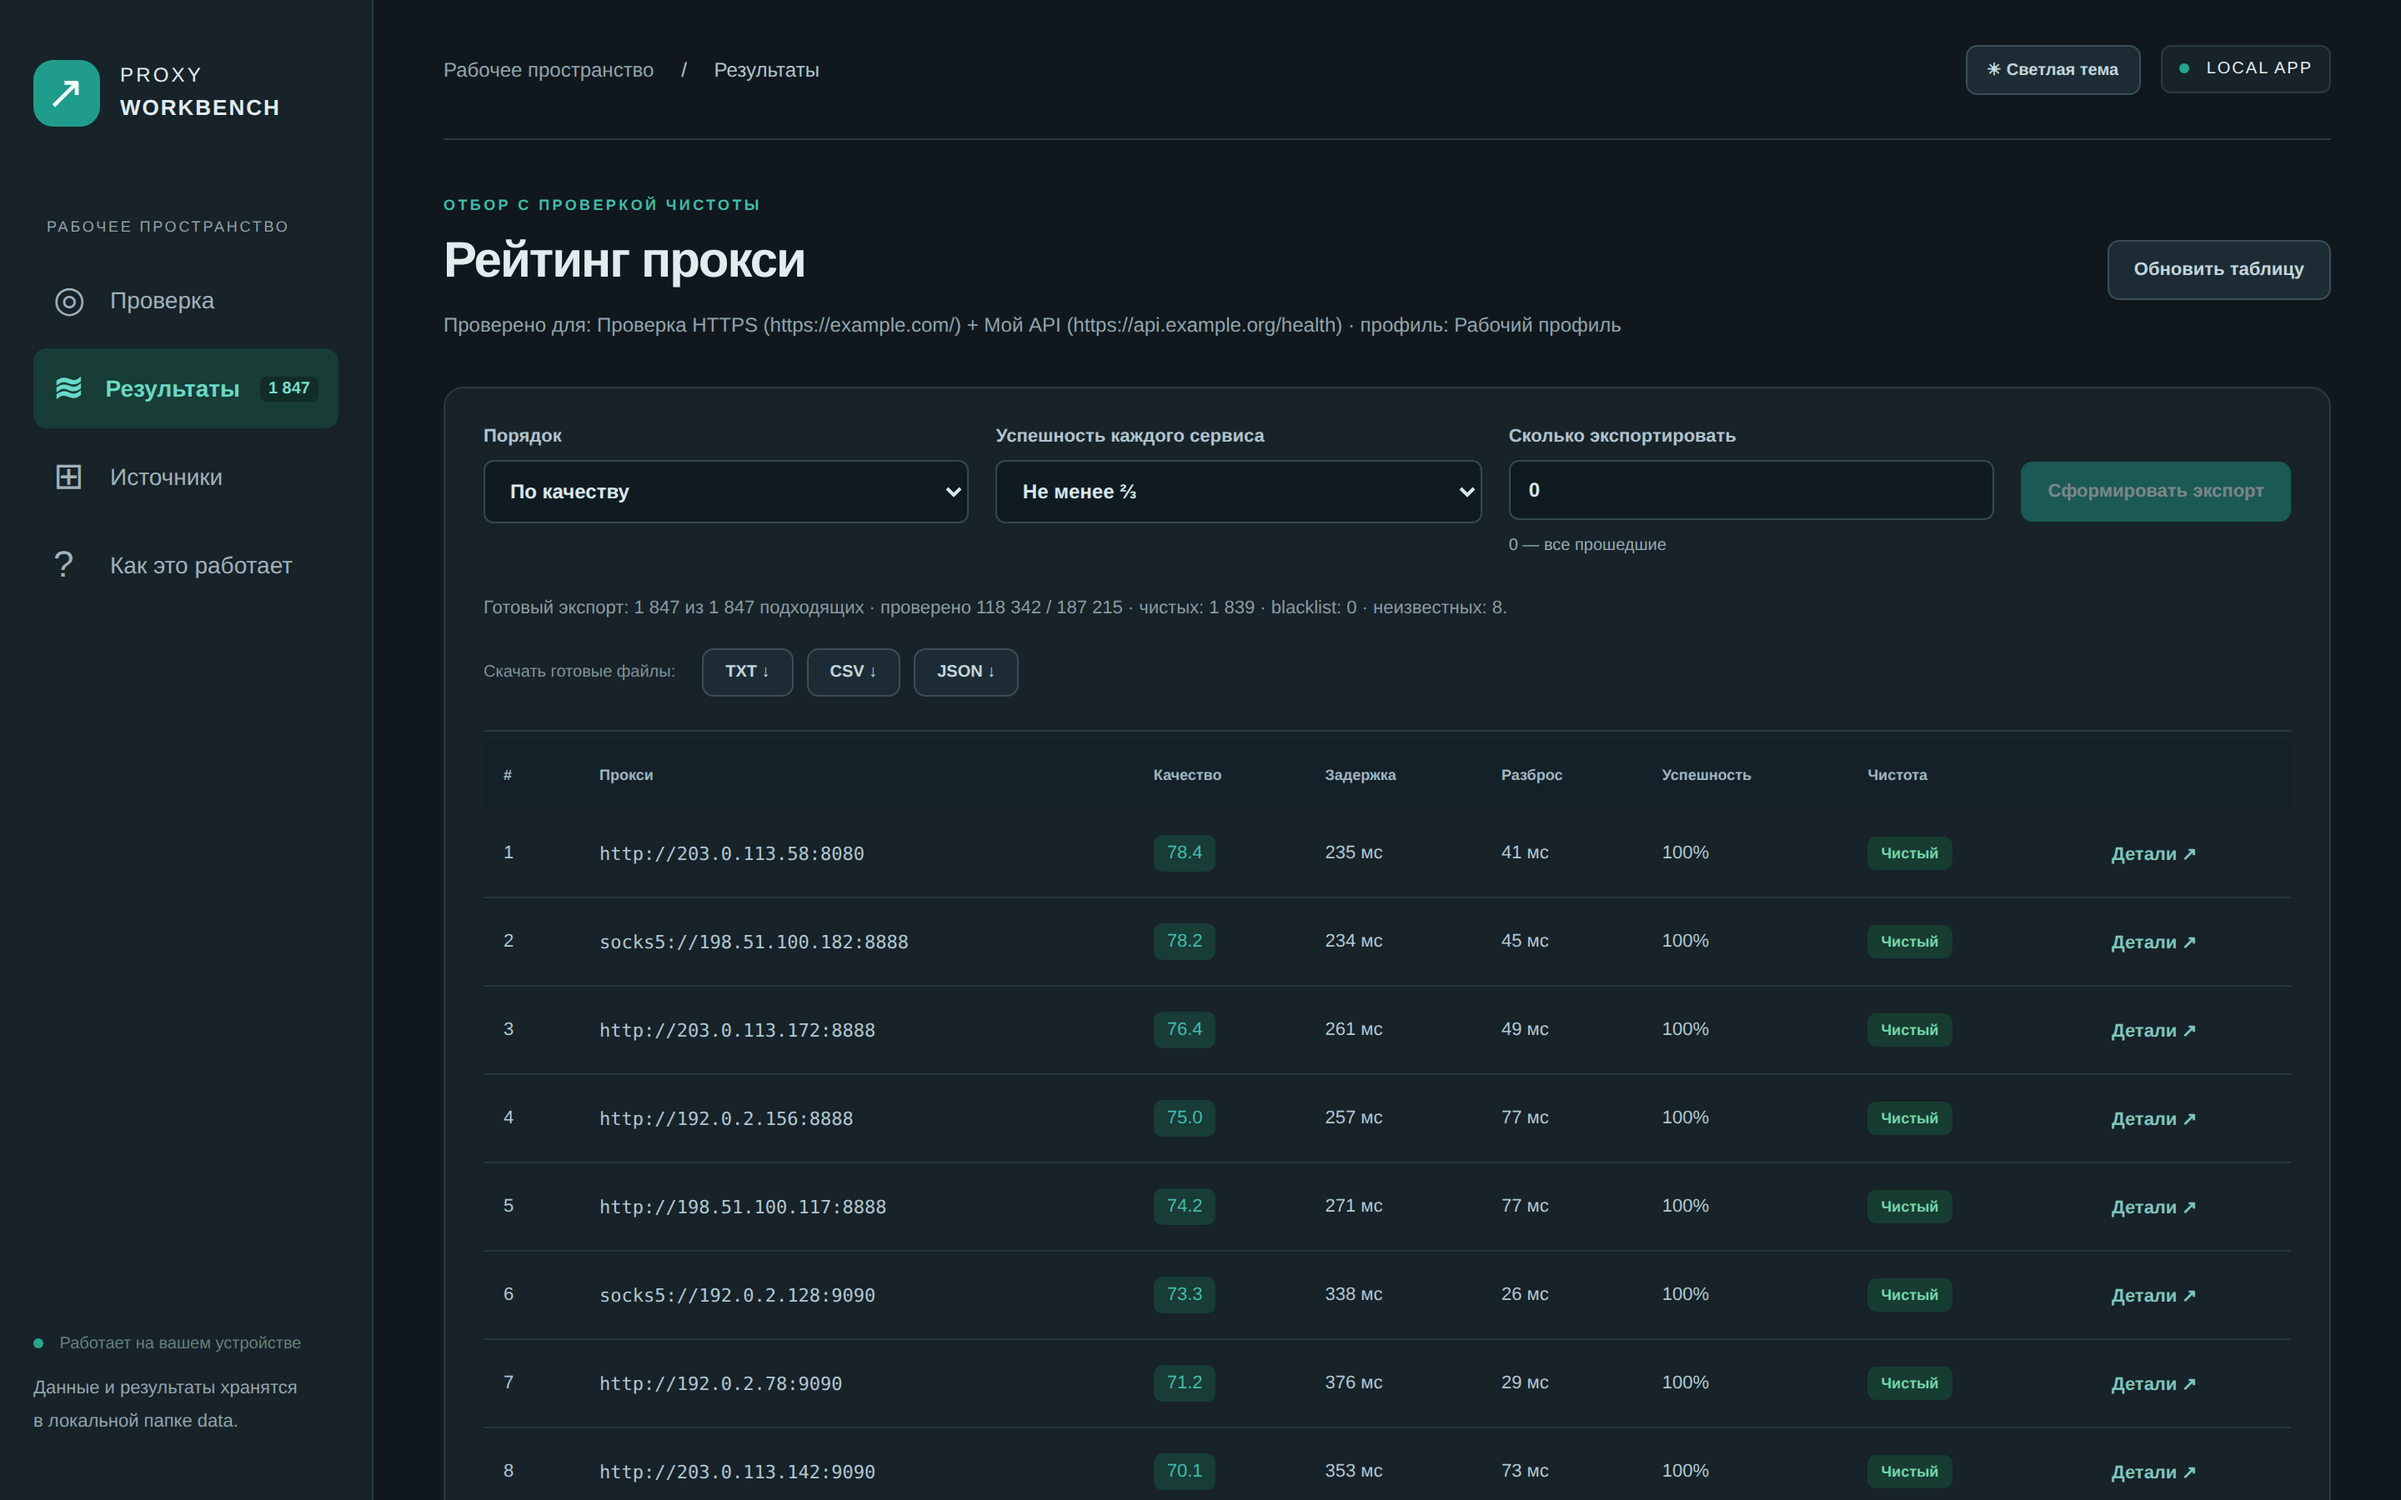
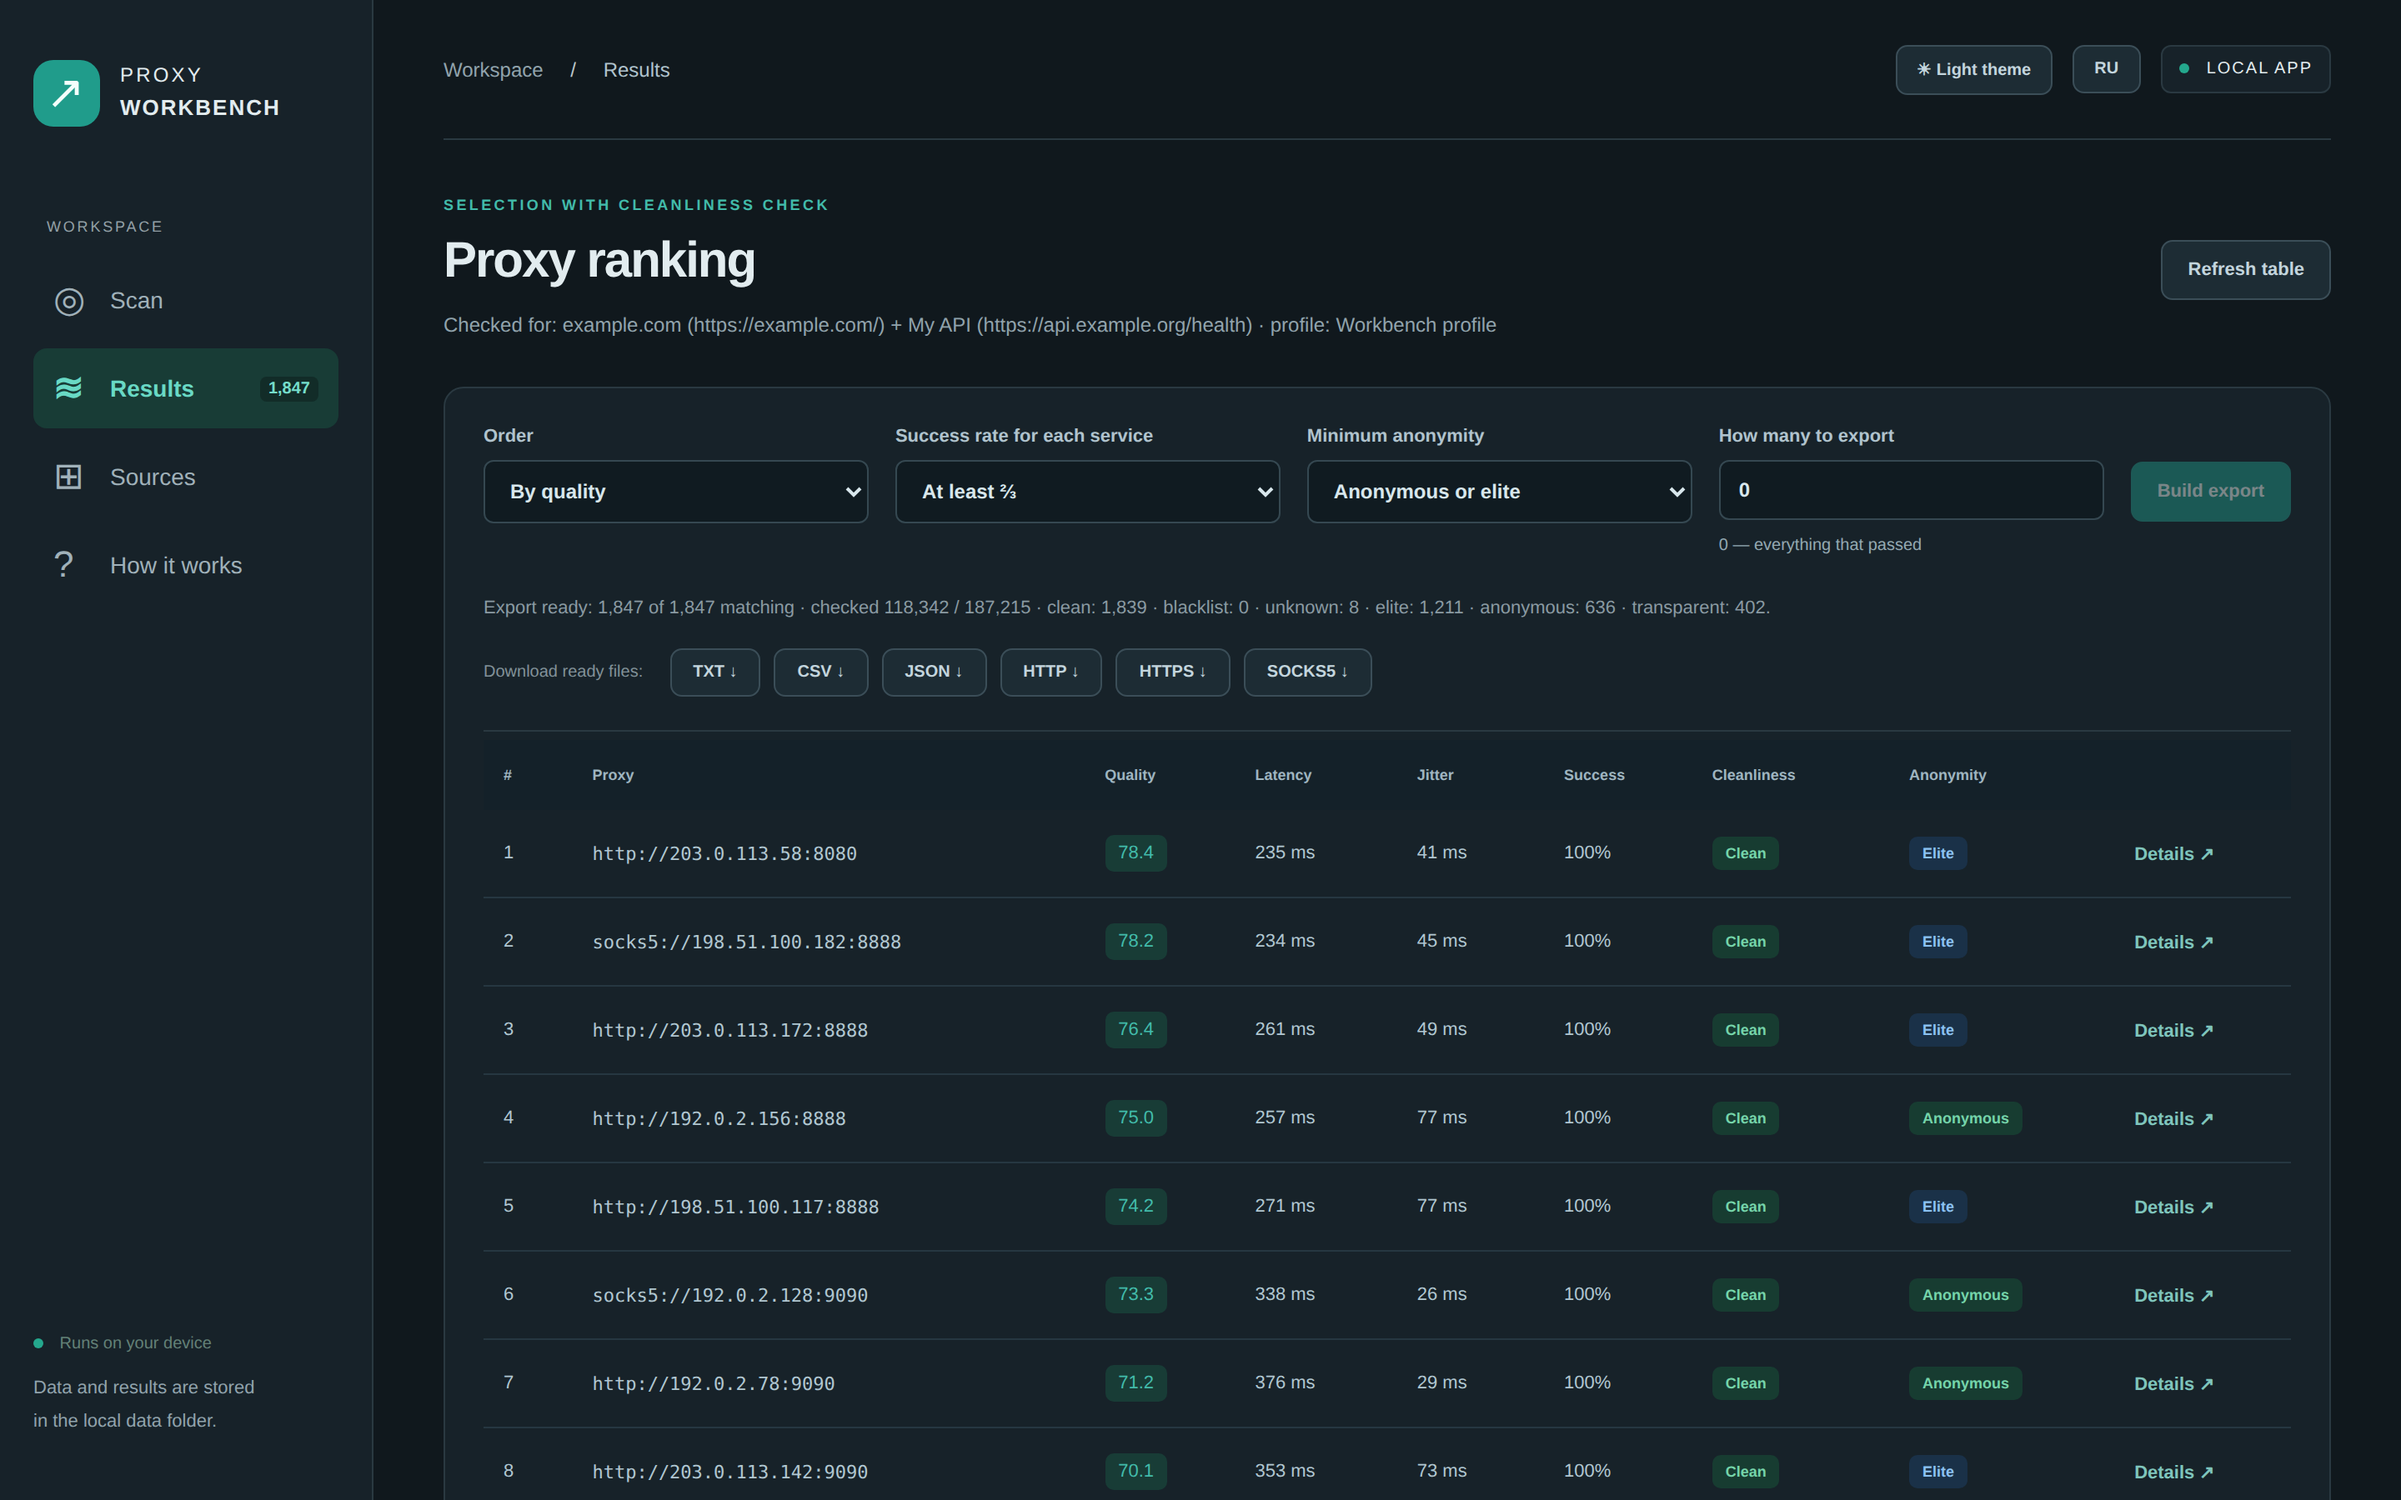
Release 1.3.0: docs, screenshots and version bump
- README (EN/RU): anonymity levels, protocol exports, EN/RU interface,
  judge FAQ, updated diagram, CLI and config examples
- PRIVACY: what an anonymity judge can observe
- English and Russian screenshots, refreshed social preview
- Neutral default service name (example.com) for both UI languages
- Version 1.3.0, CHANGELOG, SECURITY supported versions

diff --git a/gui.py b/gui.py
@@ -53,7 +53,7 @@ def public_sources(values):
 
 
 def defaults():
-    return dict(settings_version=2, targets=[dict(name='Проверка HTTPS', url='https://example.com/', statuses=[200],
+    return dict(settings_version=2, targets=[dict(name='example.com', url='https://example.com/', statuses=[200],
                              contains='Example Domain', headers={}, method='GET')],
                 sources=json.loads((ROOT/'sources.json').read_text(encoding='utf-8')), use_sources=True,
                 proxies='', attempts=3, timeout=8, workers=128, rate=100,

diff --git a/branding.py b/branding.py
@@ -11,7 +11,7 @@ import json
 
 PRODUCT_NAME = "Proxy Workbench"
 PRODUCT_ID = "ProxyWorkbench"
-PRODUCT_VERSION = "1.2.0"
+PRODUCT_VERSION = "1.3.0"
 DEFAULT_REQUEST_PROFILE = "workbench"
 
 REQUEST_PROFILES = {

diff --git a/README.md b/README.md
@@ -4,9 +4,9 @@
 
 # Proxy Workbench
 
-**Collect free public proxies from 47 open lists, test every one against _your_ services, and keep only the fast, stable and clean ones.**
+**Collect free public proxies from 47 open lists, test every one against _your_ services, and keep only the fast, stable, clean and anonymous ones.**
 
-Local browser GUI + CLI · HTTP / HTTPS (CONNECT) / SOCKS5 · resumable · no accounts, no telemetry
+Local browser GUI (English / Russian) + CLI · HTTP / HTTPS (CONNECT) / SOCKS5 · anonymity levels · resumable · no accounts, no telemetry
 
 ![Python 3.11+](https://img.shields.io/badge/python-3.11%2B-3776AB?logo=python&logoColor=white)
 ![License: MIT](https://img.shields.io/badge/license-MIT-2ea44f)
@@ -30,7 +30,7 @@ Free proxy lists are everywhere, but most of what they contain is dead, slow, or
 
 - It gathers candidates from dozens of public lists (or your own files) and de-duplicates them.
 - It sends **real HTTP(S) requests through each proxy** to every service you specify — several times — and checks status codes, body text, or even a SHA-256 of the response.
-- It ranks survivors by **median latency, jitter and success rate**, flags **blacklisted IPs** (local denylist + optional DNSBL), and exports TXT / CSV / JSON.
+- It ranks survivors by **median latency, jitter and success rate**, flags **blacklisted IPs** (local denylist + optional DNSBL), rates **anonymity** (transparent / anonymous / elite) and exports TXT / CSV / JSON plus ready-to-use `host:port` lists per protocol.
 
 Everything runs on your machine. The GUI binds to `127.0.0.1` only.
 
@@ -58,11 +58,13 @@ Everything runs on your machine. The GUI binds to `127.0.0.1` only.
 | **Test against your services** | Several targets per profile (up to 20 in the GUI). A proxy passes only if it works for **all** of them. |
 | **Strict success rules** | Allowed status codes, required body substring, expected SHA-256, `GET`/`HEAD`, safe custom headers. Catches captcha and stub pages that still return `200`. |
 | **Repeated measurements** | N attempts per target (default 3), a per-target success threshold (e.g. 2 of 3), median latency and jitter. |
+| **Anonymity levels** | Point it at any echo “judge” page and every working proxy is rated **transparent** (leaks your IP), **anonymous** (reveals itself with `Via` / `X-Forwarded-For`) or **elite**. Filter with one click or `--min-anonymity elite`. |
 | **Cleanliness checks** | Local IP / CIDR / exact-proxy denylist plus optional DNSBL zones. Verdicts: `clean`, `listed`, `local_denied`, `unknown`, with an optional strict mode. |
 | **Built for big lists** | Bounded worker queue, rate limiter, automatic file-descriptor fitting. Tested with 190,000 simulated candidates. |
 | **Stop & resume** | Progress is stored in SQLite. `Ctrl+C` or **Stop** keeps finished work; the same command continues where it left off. |
-| **Ranking & export** | Sort by `quality` or `speed`, export top N (or all) to `proxies.txt`, `ranked.csv`, `ranked.json`. Crash-safe export generations. |
+| **Ranking & export** | Sort by `quality` or `speed`, export top N (or all) to `proxies.txt`, `ranked.csv`, `ranked.json`, plus `http.txt` / `https.txt` / `socks5.txt` in plain `host:port` format for other tools. Crash-safe export generations. |
 | **Safe by default** | Loopback-only GUI with a per-session token, CSRF/Host checks, SSRF-hardened source fetching (no private/metadata IPs, validated redirects, size limits), credential-like headers rejected. |
+| **English & Russian UI** | Switch with the EN/RU button; defaults to your browser language. Dark and light themes. |
 | **Zero setup** | Double-click launcher creates a virtual environment and installs the single dependency (`httpx[socks]`). |
 
 ## 🚀 Quick start
@@ -92,9 +94,10 @@ flowchart LR
     C --> D{"Local denylist /<br/>DNSBL"}
     D -- listed --> X["Excluded"]
     D -- "clean / unknown" --> E["N real requests<br/>per service<br/>through the proxy"]
-    E --> F["SQLite profile<br/>(resumable)"]
+    E --> J["Optional judge:<br/>transparent / anonymous / elite"]
+    J --> F["SQLite profile<br/>(resumable)"]
     F --> G["Rank: quality / speed"]
-    G --> H["proxies.txt · ranked.csv · ranked.json"]
+    G --> H["proxies.txt · ranked.csv · ranked.json<br/>http.txt · https.txt · socks5.txt"]
 ```
 
 **Scoring.** `speed` sorts by median time of a full successful request (connect + TLS + response). `quality` uses
@@ -133,6 +136,9 @@ cp service.example.json data/service.json
 ./run.sh export --top 500 --sort quality
 ./run.sh export --top 0 --sort speed --min-success 1
 
+# Rate anonymity with an echo judge and keep only elite proxies
+./run.sh run --judge-url http://judge.example/azenv.php --min-anonymity elite
+
 # Tune performance and cleanliness
 ./run.sh run --workers 256 --rate 100 --timeout 8 --attempts 3
 ./run.sh run --dnsbl --dnsbl-zone bl.example.org --strict-clean
@@ -148,6 +154,7 @@ cp service.example.json data/service.json
 {
   "request_profile": "workbench",
   "reputation": { "local_enabled": true, "dnsbl_enabled": false, "dnsbl_zones": [], "timeout": 2.5, "strict": false },
+  "anonymity": { "judge_url": "http://judge.example/azenv.php" },
   "targets": [
     {
       "url": "https://example.com/",
@@ -170,6 +177,7 @@ cp service.example.json data/service.json
 | `headers` | Safe headers only: `Accept*`, `Cache-Control`, `Pragma`, `User-Agent`, `X-Request-ID`, `X-Client-Version`. |
 | `request_profile` | `workbench`, `standard` or `minimal` — neutral User-Agent/Accept presets. |
 | `reputation` | Local denylist and DNSBL policy. |
+| `anonymity.judge_url` | Optional echo endpoint for anonymity levels (see [FAQ](#-faq)). |
 
 </details>
 
@@ -190,7 +198,7 @@ Remote lists are streamed with limits (8 MiB, 64 KiB per line, 100,000 candidate
 <details>
 <summary><b>All CLI options</b></summary>
 
-Run `./run.sh --help` for the complete list: `--input`, `--sources`, `--no-sources`, `--source-timeout`, `--url`, `--config`, `--request-profile`, `--attempts`, `--timeout`, `--workers`, `--rate`, `--max-bytes`, `--denylist-file`, `--local-denylist/--no-local-denylist`, `--dnsbl`, `--dnsbl-zone`, `--reputation-timeout`, `--strict-clean`, `--recheck`, `--top`, `--sort`, `--min-success`, `--data`.
+Run `./run.sh --help` for the complete list: `--input`, `--sources`, `--no-sources`, `--source-timeout`, `--url`, `--config`, `--request-profile`, `--attempts`, `--timeout`, `--workers`, `--rate`, `--max-bytes`, `--denylist-file`, `--local-denylist/--no-local-denylist`, `--dnsbl`, `--dnsbl-zone`, `--reputation-timeout`, `--strict-clean`, `--judge-url`, `--min-anonymity`, `--recheck`, `--top`, `--sort`, `--min-success`, `--data`.
 
 </details>
 
@@ -201,7 +209,7 @@ Everything is written to the git-ignored `data/` folder:
 | Path | Content |
 | --- | --- |
 | `data/proxies.sqlite3` | candidates, profiles and every measurement |
-| `data/exports/` | `proxies.txt`, `ranked.csv`, `ranked.json`, `status.json` |
+| `data/exports/` | `proxies.txt`, `ranked.csv`, `ranked.json`, `http.txt`, `https.txt`, `socks5.txt`, `status.json` |
 | `data/sources-report.json` | per-source rows, rejects and errors |
 | `data/denylist.txt` | your IP / CIDR / proxy rules (`#` comments allowed) |
 | `data/gui-settings.json` | GUI settings |
@@ -227,6 +235,18 @@ It depends on how many candidates respond. The worst case — ~190,000 dead addr
 **Why did a proxy that works in my browser fail here?**
 Redirects are not followed, TLS certificates are verified, and each target must pass on its own threshold. Check **Details** for the exact error of every attempt.
 
+**What do transparent / anonymous / elite mean, and which judge should I use?**
+A *judge* is any page that echoes back the IP and headers it received — for example an `httpbin`-style `/get` endpoint or an `azenv.php` script (ideally one you host yourself). Proxy Workbench asks it once directly to learn your public IP (kept in memory only, never saved), then once through every working proxy:
+
+| Level | Meaning |
+| --- | --- |
+| `transparent` | your real IP is visible to the site |
+| `anonymous` | your IP is hidden, but the proxy announces itself (`Via`, `X-Forwarded-For`, …) |
+| `elite` | neither your IP nor proxy headers are visible |
+| `unknown` | the judge request through the proxy failed |
+
+Use an **`http://`** judge: through an HTTPS tunnel a proxy cannot add headers, so every proxy would look elite.
+
 **What does “clean” mean?**
 The IP is not in your local denylist and (if enabled) not listed by the DNSBL zones you chose. It is a reputation signal, not a guarantee of safety.
 
@@ -240,7 +260,8 @@ Checking public lists is generally fine, but you are responsible for respecting 
 
 - [x] English interface with an EN/RU switch
 - [ ] `pipx install` / PyPI package and a single `proxy-workbench` command
-- [ ] Anonymity level detection (transparent / anonymous / elite) via a user-hosted echo endpoint
+- [x] Anonymity level detection (transparent / anonymous / elite)
+- [x] Per-protocol `host:port` exports
 - [ ] Optional GeoIP country column and country filters from a local database
 - [ ] Scheduled re-checks of the best proxies
 - [ ] Docker image for headless servers

diff --git a/CHANGELOG.md b/CHANGELOG.md
@@ -4,22 +4,33 @@
 
 ## [Unreleased]
 
+## [1.3.0] — 2026-09-24
+
 ### Added
 
-- English `README.md` with screenshots, feature overview, quick start, FAQ and roadmap; full Russian documentation moved to `README.ru.md`.
+- **Anonymity levels.** Optional judge URL (`--judge-url`, GUI field, config key `anonymity`) rates every working proxy as `transparent`, `anonymous` or `elite`. The machine's own public IP is learned with one direct judge request and kept in memory only.
+- `--min-anonymity any|anonymous|elite` filter for scans, exports and the results table; anonymity column, details and level counts in `status.json`.
+- Per-protocol `host:port` exports: `http.txt`, `https.txt`, `socks5.txt` (also downloadable from the GUI).
+- English interface with an EN/RU toggle next to the theme switch; defaults to the browser language, remembered in `localStorage`, localized number formatting. Server messages and the run log are translated in English mode.
+- English `README.md` with screenshots, feature overview, quick start, FAQ and roadmap; full Russian documentation in `README.ru.md`.
 - Screenshots and social preview image in `docs/assets/` (synthetic data from documentation IP ranges).
 - Pull request template, question issue template, Dependabot configuration, `.editorconfig` and `.gitattributes` (CRLF for `Start.bat`, LF for shell launchers).
-- Pip caching and superseded-run cancellation in CI.
+
+### Changed
+
+- CI caches pip downloads and cancels superseded runs.
+- Profiles without a judge URL keep their previous identity, so existing results stay valid after the upgrade.
+
+## [1.2.0] — 2026-09-24
+
+### Added
 
 - MIT license с нейтральным copyright holder.
 - Public security, privacy, contribution и code of conduct policies.
 - Source-only project metadata с Python 3.11+ и pinned `httpx[socks]` dependency.
 - Cross-platform CI matrix для локальных mock-based unit tests.
 - Structured bug report и feature request issue templates.
-- English translation of the browser GUI with an EN/RU toggle next to the theme switch. The language defaults to the browser locale, is remembered in `localStorage`, and also localizes number formatting. Server-side error messages and the execution log are still Russian only.
 - Bounded source downloads, redirect validation with pinned validated IPs, safe-header policy, crash-safe export generations with bounded retention, on-demand result details, and explicit local-data cleanup.
-
-## [1.2.0] — In development
 
 ### Changed
 
